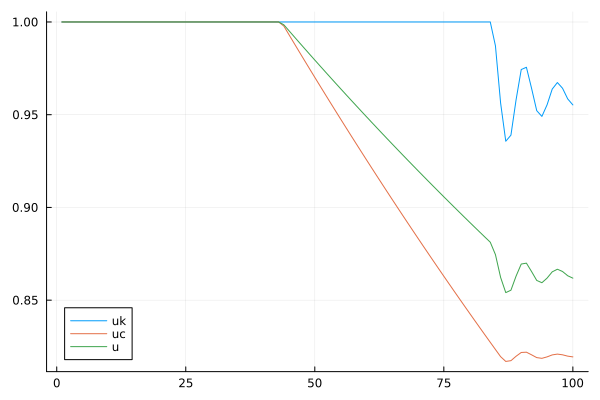
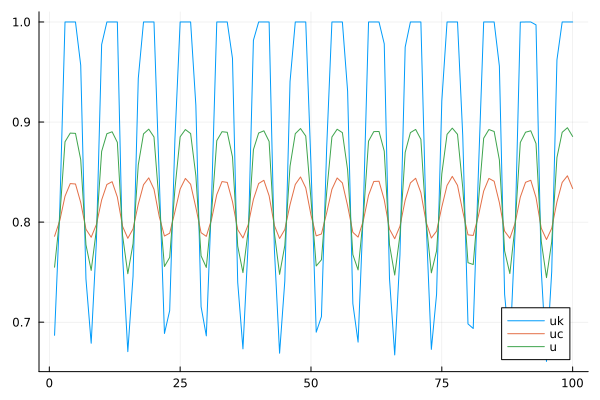
土台作り完了。

diff --git a/memo.md b/memo.md
@@ -1,9 +1,14 @@
 ##  明らかなバグ
-t=3で会計的一貫性が壊れている
+
+##  作業用メモ
+パラメータや変数の初期値をどのように決めるか
+
+外生的なショック、または、政策当局が値を決定するパラメータ及び外生変数の変更と、それに対する内生変数の反応を評価
 
 ##  改善すべきこと
-Net Lendingが、企業部門が赤字、労働者と政府部門が黒字、の状態は不自然。
-政府部門が赤字、他が黒字、あるいは政府部門と企業部門が赤字、他が黒字、といった感じなら許せる
+α5の値次第で、長期均衡が実現せず、Iなどの変数の振動が発散しそう。AB-SFC化するときの変数の初期値（やパラメータ）を決めるための参考に使いたいので、α5の値によらず長期均衡してほしい
 
+##  発展の方向性
+人口一定の条件を加える。人口が一定だから、Nc,Nk,Ngの合計も一定値以下で推移させる。財政支出が、民間の供給能力を圧迫しない程度で推移するような行動方程式が必要になると思う
 
 技術水準不変の条件なので、政府最終消費支出（社会保障費を除く）の増加率と人口の増加率をおおむね一致させたい
